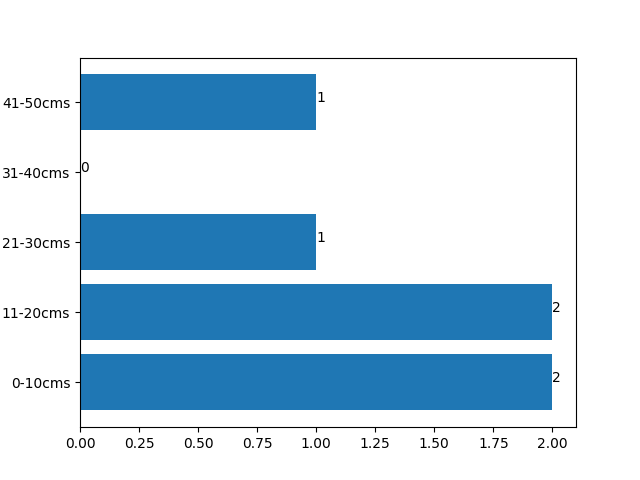
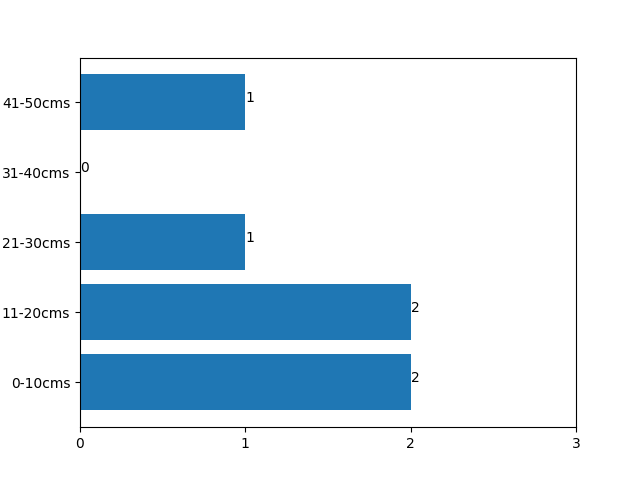
update q2.py

diff --git a/q2.py b/q2.py
@@ -1,4 +1,5 @@
 import matplotlib.pyplot as plt
+import numpy as np
 
 # this function counts number of integers exists in the range
 def count(arr, start, end):
@@ -28,7 +29,8 @@ def graphSnowfall(t):
     # add text to the graph
     for index, value in enumerate(y):
         plt.text(value, index, str(value))
-        
+    plt.xticks(np.arange(0, 4, step=1))
+
     # save the graph image 
     plt.savefig("q2.png")
 
